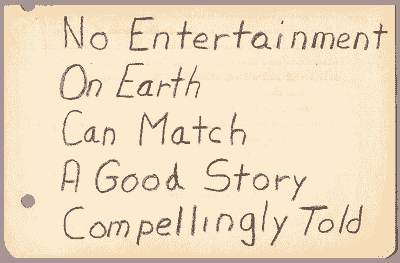
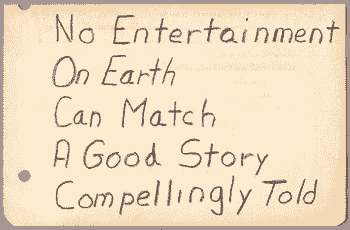
chore: refactor js; compress images further; add comments

diff --git a/scripts/fetchAqi.js b/scripts/fetchAqi.js
@@ -1,0 +1,53 @@
+// Fetches the aqi, prints the AQI quality to HTML (we can remove)
+// Changes the background color of the site slightly depending on the AQI level. On worse days, the site becomes more red.
+// Air Pollution is calculated a little differently on the open weather api, on a scale from 1-5
+// Read more about that here https://openweathermap.org/api/air-pollution
+
+async function fetchAqi() {
+  const aqi = await getAirQualityData();
+  const aqiValue = aqi.list[0].main.aqi;
+
+  const airQualityDescription = getAirQualityDescription(aqiValue);
+  displayAirQuality(airQualityDescription);
+
+  const backgroundColor = calculateBackgroundColor(aqiValue);
+  document.body.style.backgroundColor = backgroundColor;
+}
+
+async function getAirQualityData() {
+  const response = await fetch(
+    "https://api.openweathermap.org/data/2.5/air_pollution?lat=51.5073219&lon=-0.1276474&appid=ac6a8e4517ccb8b2c12e6713125a2d34"
+  );
+  return response.json();
+}
+
+// Assigns AQI numerical value to qualitative value
+function getAirQualityDescription(aqiValue) {
+  const airQualityTable = {
+    "1": "Good",
+    "2": "Fair",
+    "3": "Moderate",
+    "4": "Poor",
+    "5": "Very Poor",
+  };
+  return airQualityTable[aqiValue];
+}
+
+// Prints the AQI qualitative value to HTML
+function displayAirQuality(airQualityDescription) {
+  const airQualityElement = document.getElementById("aqi");
+  airQualityElement.textContent = `The air quality today is ${airQualityDescription}.`;
+}
+
+// Calculates a change of the background color to a red tone on bad AQI days
+function calculateBackgroundColor(aqiValue) {
+  let redness = 27;
+
+  if (aqiValue > 2) {
+    redness = Math.round(27 + (aqiValue - 1) * 5.4);
+  }
+
+  return `#${redness}2a24`;
+}
+
+fetchAqi();

diff --git a/scripts/fetchData.js b/scripts/fetchData.js
@@ -18,22 +18,27 @@ async function downloadImage(url, filePath) {
     }
 }
 
+// Compression algorithm using sharp 
+// https://sharp.pixelplumbing.com/
+// Image output is currently 87KB, this can be improved. 
 async function processAndOptimizeImage(inputFilePath, outputFilePath) {
     await sharp(inputFilePath)
-        .resize(400) // Adjust dimensions as needed
+        .resize(350) // Adjust dimensions as needed
         .toFormat('png')
         .png({
         dither: .9, // Enable dithering
         palette: true, // Create a color palette for dithering
         colors: 3,
-        quality: 10,  // Adjust quality level as needed
+        quality: 5,  // Adjust quality level as needed
         })
         .toFile(outputFilePath);
+    }
 
-    console.log(`${outputFilePath}: Image optimization done`);
-}
 
-(async () => {
+// This function checks for an image cache and if found deletes it
+// Downloads the images and runs the compresssion algorithm and saves the images to cache/images/
+// Downloads sorts and merges the JSON file and saves it to cache/data.json
+async function downloadAndCompress() {
     try {
         const imagesDir = 'cache/images';
         const tempDir = 'cache/temp';
@@ -81,7 +86,10 @@ async function processAndOptimizeImage(inputFilePath, outputFilePath) {
         
         // Delete the temporary folder
         await fsp.rm(tempDir, { recursive: true });
+        console.log("Images Downloaded")
     } catch (err) {
         console.error('Error:', err);
     }
-})();
+};
+
+downloadAndCompress()

diff --git a/scripts/stopWorkflow.js b/scripts/stopWorkflow.js
@@ -1,6 +1,8 @@
 const aqi = await fetch(`https://api.openweathermap.org/data/2.5/air_pollution?lat=51.5073219&lon=-0.1276474&appid=ac6a8e4517ccb8b2c12e6713125a2d34`).then(aqi => aqi.json());
 const aqiValue = aqi.list[0].main.aqi;
 
+// This function executes in a daily workflow build in main.yml
+// It checks the AQI value and stops the build if it is below a set value.
 function shouldStopWorkflow(aqiValue) {
   if (aqiValue < 3) {
     console.log('AQI today is: ' + aqiValue + '. Workflow is stopping.');

diff --git a/index.html b/index.html
@@ -25,7 +25,7 @@
     </div>
 
     
-    <script src="scripts/fetchWeather.js" type="module"></script>
+    <script src="scripts/fetchAqi.js" type="module"></script>
     <script src="scripts/fetchCarbon.js"></script>
     <script src="scripts/buildContent.js" type="module"></script>
     </script>
